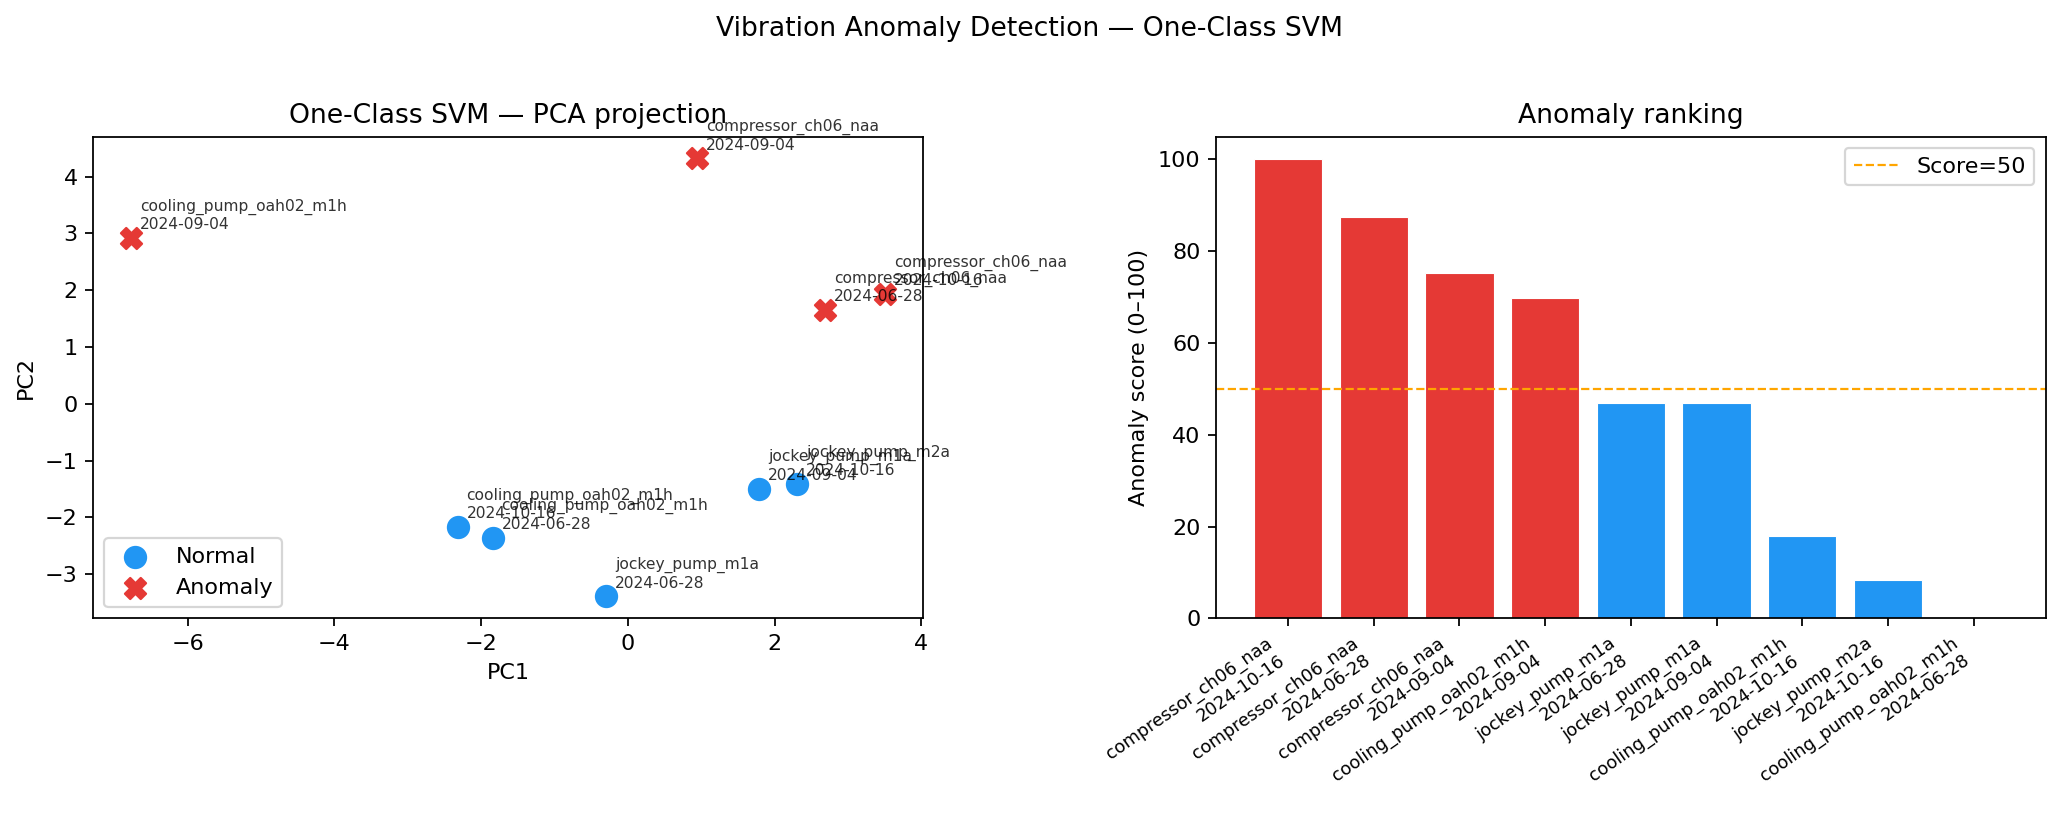
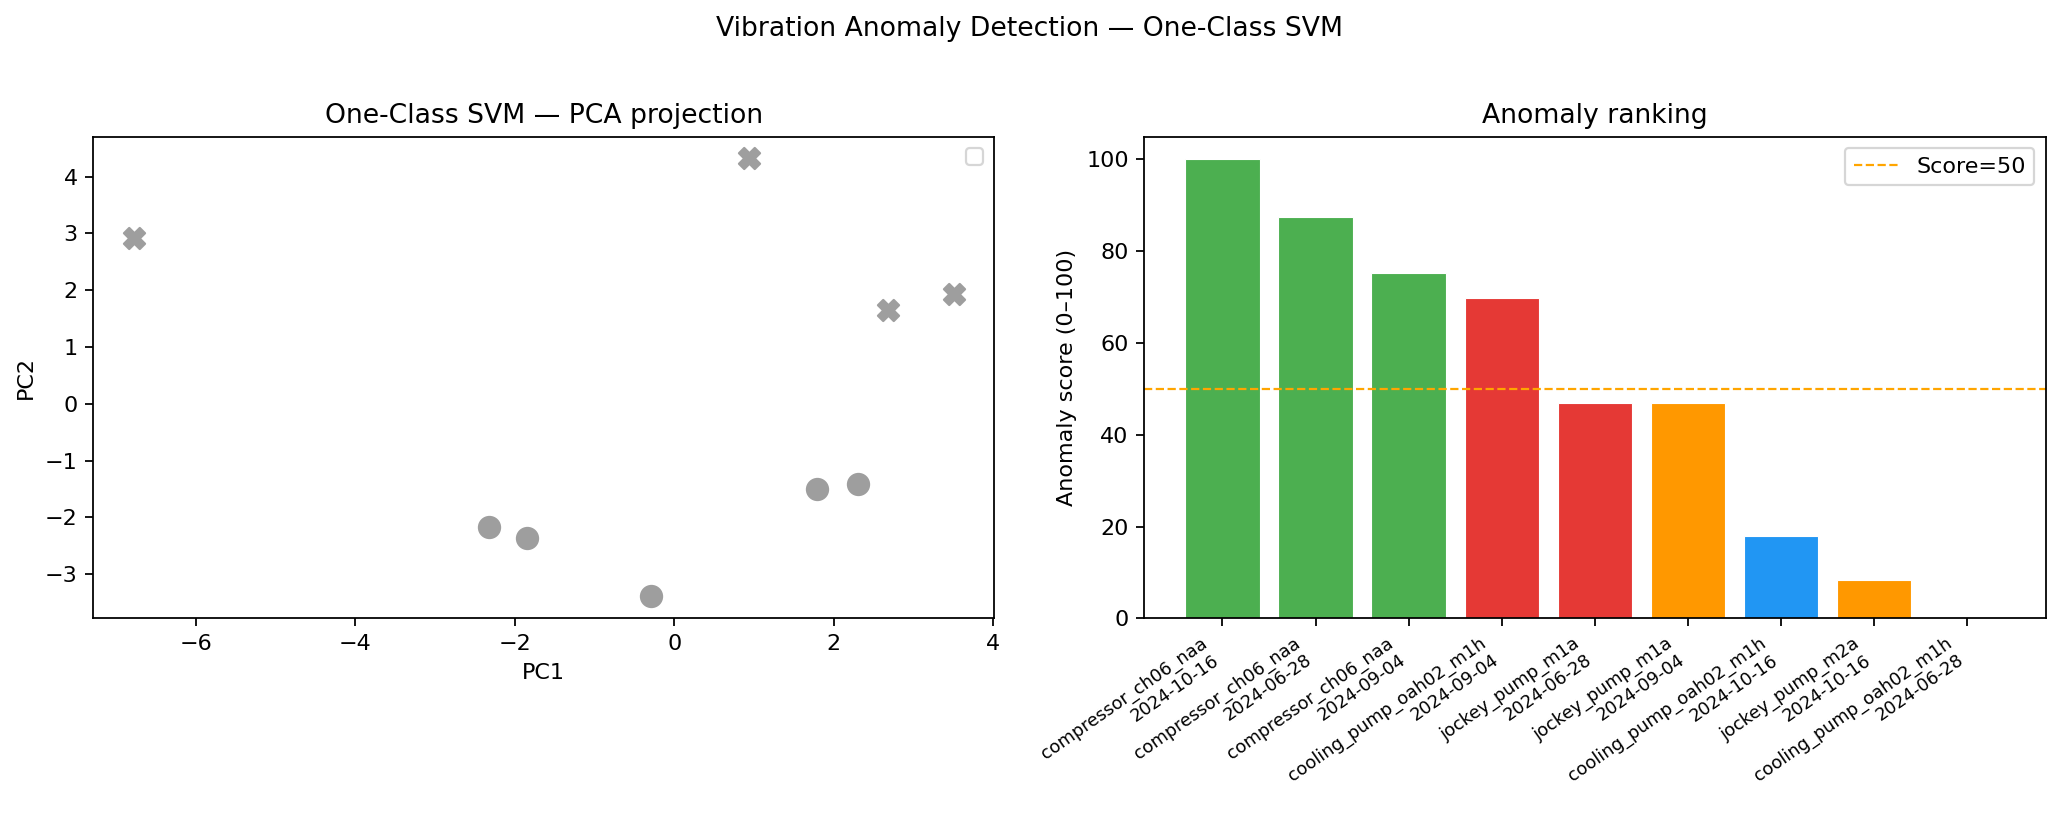
Refactor code structure for improved readability and maintainability

diff --git a/Vibration Analysis Pipeline/main.py b/Vibration Analysis Pipeline/main.py
@@ -4,6 +4,7 @@ from pathlib import Path
 import matplotlib.pyplot as plt
 import numpy as np
 import pandas as pd
+from config import ISO_GROUP
 
 from feature_extractor import build_feature_table
 from svm_detector import build_ai_assessment, save_ai_plots
@@ -52,50 +53,97 @@ def build_health_assessment(features: pd.DataFrame) -> pd.DataFrame:
               .sort_values(['asset_id', 'analysis_date'])
               .reset_index(drop=True))
 
+def build_iso_assessment(features: pd.DataFrame) -> pd.DataFrame:
+    rows = []
+    for _, row in features.iterrows():
+        asset = row['asset_id']
+        thresholds = ISO_GROUP.get(asset, 
+                        {'zone_b': 2.3, 'zone_c': 4.5, 'zone_d': 7.1})
+        
+        v = row.get('velocity_rms_mms', None)
+        if v is None:
+            zone = 'Unknown'
+        elif v > thresholds['zone_d']:
+            zone = 'D'   
+        elif v > thresholds['zone_c']:
+            zone = 'C'   
+        elif v > thresholds['zone_b']:
+            zone = 'B'   
+        else:
+            zone = 'A'   
+
+        rows.append({
+            'asset_id':        asset,
+            'analysis_date':   row['analysis_date'],
+            'file':            row['file'],
+            'velocity_rms_mms': round(v, 3) if v else None,
+            'iso_zone':        zone,
+            'iso_standard':    'ISO 10816-3 Group 1',
+        })
+
+    return pd.DataFrame(rows).sort_values(['asset_id', 'analysis_date'])
 
 PLOT_METRICS_WAVELET  = ['wavelet_energy_L1', 'wavelet_energy_L2', 'wavelet_entropy_L1']
 PLOT_METRICS_ENVELOPE = ['env_rms', 'env_dom_freq_hz', 'env_kurtosis']
 
-def save_trend_plots(features: pd.DataFrame, plot_dir: str | Path) -> None:
+def save_trend_plots(features: pd.DataFrame, iso_assessment: pd.DataFrame,
+                     plot_dir: str | Path) -> None:
+    from config import ISO_ZONE_COLORS, ISO_GROUP
+
     plot_dir = Path(plot_dir)
     plot_dir.mkdir(parents=True, exist_ok=True)
 
-    w_cols = [c for c in PLOT_METRICS_WAVELET  if c in features.columns]
-    e_cols = [c for c in PLOT_METRICS_ENVELOPE if c in features.columns]
-    n_rows = max(len(w_cols), len(e_cols))
+    merged = features.merge(
+        iso_assessment[['file', 'iso_zone']], 
+        on='file', how='left'
+    )
 
-    if n_rows == 0:
-        return
-
-    for asset_id, group in features.groupby('asset_id'):
+    for asset_id, group in merged.groupby('asset_id'):
         group = group.sort_values('analysis_date').reset_index(drop=True)
         x     = pd.to_datetime(group['analysis_date'])
+        
+        point_colors = [ISO_ZONE_COLORS.get(z, '#888') for z in group['iso_zone']]
 
-        fig, axes = plt.subplots(n_rows, 2, figsize=(12, 3 * n_rows), squeeze=False)
+        fig, axes = plt.subplots(4, 1, figsize=(10, 12))
         fig.suptitle(f'Vibration trend — {asset_id}', fontsize=11)
 
-        for i, col in enumerate(w_cols):
-            axes[i][0].plot(x, group[col], marker='o', color='#5C6BC0', linewidth=1.5)
-            axes[i][0].set_title(col, fontsize=9)
-            axes[i][0].tick_params(axis='x', rotation=20, labelsize=8)
+        ax = axes[0]
+        ax.plot(x, group['velocity_rms_mms'], color='#555', linewidth=1.5, zorder=2)
+        for i, (xi, yi, ci) in enumerate(zip(x, group['velocity_rms_mms'], point_colors)):
+            ax.scatter(xi, yi, color=ci, s=80, zorder=3)
 
-        for i, col in enumerate(e_cols):
-            axes[i][1].plot(x, group[col], marker='s', color='#26A69A', linewidth=1.5)
-            axes[i][1].set_title(col, fontsize=9)
-            axes[i][1].tick_params(axis='x', rotation=20, labelsize=8)
+        thresholds = ISO_GROUP.get(asset_id, {'zone_b': 2.3, 'zone_c': 4.5, 'zone_d': 7.1})
+        ymax = max(group['velocity_rms_mms'].max() * 1.3, thresholds['zone_d'] * 1.2)
+        ax.axhspan(0,                      thresholds['zone_b'], alpha=0.08, color='#4CAF50', label='Zone A')
+        ax.axhspan(thresholds['zone_b'],   thresholds['zone_c'], alpha=0.08, color='#2196F3', label='Zone B')
+        ax.axhspan(thresholds['zone_c'],   thresholds['zone_d'], alpha=0.08, color='#FF9800', label='Zone C')
+        ax.axhspan(thresholds['zone_d'],   ymax,                 alpha=0.08, color='#E53935', label='Zone D')
 
-        for i in range(len(w_cols), n_rows):
-            axes[i][0].set_visible(False)
-        for i in range(len(e_cols), n_rows):
-            axes[i][1].set_visible(False)
+        ax.axhline(thresholds['zone_b'], color='#2196F3', linestyle='--', linewidth=0.8)
+        ax.axhline(thresholds['zone_c'], color='#FF9800', linestyle='--', linewidth=0.8)
+        ax.axhline(thresholds['zone_d'], color='#E53935', linestyle='--', linewidth=0.8)
+
+        ax.set_title('Velocity RMS (mm/s) — ISO 10816-3', fontsize=9)
+        ax.set_ylim(0, ymax)
+        ax.legend(fontsize=7, loc='upper left')
+        ax.tick_params(axis='x', rotation=20, labelsize=8)
+
+        for i, col in enumerate(['wavelet_energy_L1', 'env_rms', 'kurtosis'], start=1):
+            if col not in group.columns:
+                axes[i].set_visible(False)
+                continue
+            axes[i].plot(x, group[col], color='#5C6BC0', linewidth=1.5)
+            for xi, yi, ci in zip(x, group[col], point_colors):
+                axes[i].scatter(xi, yi, color=ci, s=60, zorder=3)
+            axes[i].set_title(col, fontsize=9)
+            axes[i].tick_params(axis='x', rotation=20, labelsize=8)
 
         fig.tight_layout()
         safe_id = asset_id.replace('/', '_')
-        fig.savefig(plot_dir / f'wavelet_envelope_trend_{safe_id}.png', dpi=150)
+        fig.savefig(plot_dir / f'iso_trend_{safe_id}.png', dpi=150)
         plt.close(fig)
 
     print(f'[analyze] Saved trend plots → wavelet_envelope_trend_{{asset}}.png')
-
 
 def print_summary(features: pd.DataFrame, assessment: pd.DataFrame,
                   ai_assessment: pd.DataFrame) -> None:
@@ -117,7 +165,6 @@ def print_summary(features: pd.DataFrame, assessment: pd.DataFrame,
         print(f'    {flag:8s}: {n}')
     print('=' * 55 + '\n')
 
-
 def main() -> None:
     root = Path(__file__).resolve().parent
     data_dir = root.parent / 'Data' 
@@ -132,6 +179,8 @@ def main() -> None:
     print('[3/5] Running One-Class SVM anomaly detection...')
     ai_assessment = build_ai_assessment(features)
 
+    iso_assessment = build_iso_assessment(features)
+
     print('[4/5] Saving outputs...')
     out_dir = root / 'outputs'
     out_dir.mkdir(exist_ok=True)
@@ -140,8 +189,8 @@ def main() -> None:
     ai_assessment.to_csv(out_dir / 'ai_assessment.csv', index=False)
 
     print('[5/5] Generating plots...')
-    save_trend_plots(features, out_dir / 'plots')
-    save_ai_plots(features, ai_assessment, out_dir / 'plots')
+    save_trend_plots(features, iso_assessment, out_dir / 'plots')
+    save_ai_plots(features, ai_assessment, iso_assessment, out_dir / 'plots')
 
     print_summary(features, assessment, ai_assessment)
 

diff --git a/Vibration Analysis Pipeline/svm_detector.py b/Vibration Analysis Pipeline/svm_detector.py
@@ -7,6 +7,7 @@ import matplotlib.pyplot as plt
 from sklearn.decomposition import PCA
 from sklearn.preprocessing import StandardScaler
 from sklearn.svm import OneClassSVM
+from config import ISO_ZONE_COLORS
 
 from config import (
     SVM_NU, SVM_KERNEL, SVM_GAMMA,
@@ -54,6 +55,7 @@ def build_ai_assessment(features: pd.DataFrame) -> pd.DataFrame:
 
 # Plots
 def save_ai_plots(features: pd.DataFrame, ai_assessment: pd.DataFrame,
+                  iso_assessment: pd.DataFrame,
                   plot_dir: str | Path) -> None:
     plot_dir = Path(plot_dir)
     plot_dir.mkdir(parents=True, exist_ok=True)
@@ -73,23 +75,21 @@ def save_ai_plots(features: pd.DataFrame, ai_assessment: pd.DataFrame,
     fig, (ax1, ax2) = plt.subplots(1, 2, figsize=(13, 5))
 
     # PCA
-    for flag in ['Normal', 'Anomaly']:
-        mask = merged['anomaly_flag'] == flag
-        ax1.scatter(pts[mask, 0], pts[mask, 1],
-                    marker=markers[flag], color=colors[flag],
-                    s=90, label=flag, zorder=3)
     for i, row in merged.iterrows():
-        lbl = f"{row['asset_id']}\n{str(row['analysis_date'])[:10]}"
-        ax1.annotate(lbl, (pts[i, 0], pts[i, 1]),
-                     fontsize=7, alpha=0.8,
-                     xytext=(4, 4), textcoords='offset points')
+        zone = row.get('iso_zone', 'Unknown')
+        flag = row['anomaly_flag']
+        ax1.scatter(pts[i, 0], pts[i, 1],
+                    marker=markers[flag],
+                    color=ISO_ZONE_COLORS.get(zone, '#888'),
+                    s=90, zorder=3)
     ax1.set_title('One-Class SVM — PCA projection')
     ax1.set_xlabel('PC1'); ax1.set_ylabel('PC2')
     ax1.legend()
 
     # Score bar
     sp = merged.sort_values('anomaly_score_0_100', ascending=False).reset_index(drop=True)
-    bar_colors = [colors.get(f, '#888') for f in sp['anomaly_flag']]
+    sp = sp.merge(iso_assessment[['file', 'iso_zone']], on='file', how='left')
+    bar_colors = [ISO_ZONE_COLORS.get(z, '#888') for z in sp['iso_zone']]
     xlabels    = [f"{a}\n{str(d)[:10]}"
                   for a, d in zip(sp['asset_id'], sp['analysis_date'])]
     ax2.bar(range(len(sp)), sp['anomaly_score_0_100'],
@@ -108,7 +108,7 @@ def save_ai_plots(features: pd.DataFrame, ai_assessment: pd.DataFrame,
 
     fig, ax = plt.subplots(figsize=(10, 5))
     bars = ax.barh(range(len(sp)), sp['anomaly_score_0_100'],
-                   color=[colors.get(f, '#888') for f in sp['anomaly_flag']])
+                color=[ISO_ZONE_COLORS.get(z, '#888') for z in sp['iso_zone']])
     for i, (_, row) in enumerate(sp.iterrows()):
         ax.text(row['anomaly_score_0_100'] + 0.8, i,
                 f"driver: {row['top_ai_driver']}",

diff --git a/Vibration Analysis Pipeline/feature_extractor.py b/Vibration Analysis Pipeline/feature_extractor.py
@@ -5,9 +5,19 @@ import numpy as np
 import pandas as pd
 import pywt
 from scipy.signal import hilbert
+from scipy.integrate import cumulative_trapezoid
+from scipy.integrate import cumulative_trapezoid
 
 from data_parser import parse_waveform_txt
 from config import WAVELET, WAVELET_LEVEL
+
+def accel_to_velocity_rms(amp_g: np.ndarray, fs_hz: float) -> float:
+    amp_ms2 = amp_g * 9.81
+    dt = 1.0 / fs_hz
+    velocity = cumulative_trapezoid(amp_ms2, dx=dt, initial=0)
+    velocity -= velocity.mean()
+    rms_ms = float(np.sqrt(np.mean(velocity ** 2)))
+    return rms_ms * 1000
 
 def extract_wavelet_features(amp: np.ndarray, wavelet: str = WAVELET,
                               level: int = WAVELET_LEVEL) -> dict:
@@ -48,22 +58,23 @@ def extract_stat_features(amp: np.ndarray, fs_hz: float) -> dict:
     std       = float(amp.std(ddof=0))
     centered  = amp - amp.mean()
 
-    shape_factor   = rms / (abs_mean + 1e-12)         # RMS / |mean|
-    impulse_factor = peak / (abs_mean + 1e-12)        # peak / |mean|
+    shape_factor   = rms / (abs_mean + 1e-12)
+    impulse_factor = peak / (abs_mean + 1e-12)
     skewness       = float((centered ** 3).mean() / (std ** 3 + 1e-12))
     kurtosis       = float((centered ** 4).mean() / (std ** 4 + 1e-12))
     crest_factor   = peak / (rms + 1e-12)
     zero_cross     = float(np.mean(np.diff(np.signbit(amp)) != 0))
 
     return {
-        'rms_g':          rms,
-        'peak_abs_g':     peak,
-        'crest_factor':   crest_factor,
-        'kurtosis':       kurtosis,
-        'skewness':       skewness,
-        'shape_factor':   shape_factor,
-        'impulse_factor': impulse_factor,
-        'zero_cross_rate': zero_cross,
+        'rms_g':            rms,
+        'peak_abs_g':       peak,
+        'crest_factor':     crest_factor,
+        'kurtosis':         kurtosis,
+        'skewness':         skewness,
+        'shape_factor':     shape_factor,
+        'impulse_factor':   impulse_factor,
+        'zero_cross_rate':  zero_cross,
+        'velocity_rms_mms': accel_to_velocity_rms(amp, fs_hz),  # เพิ่มบรรทัดนี้
     }
 
 def extract_all_features(df: pd.DataFrame) -> dict:

diff --git a/Vibration Analysis Pipeline/config.py b/Vibration Analysis Pipeline/config.py
@@ -20,6 +20,25 @@ ENVELOPE_FEATURE_NAMES = [
     'env_rms', 'env_peak', 'env_dom_freq_hz', 'env_kurtosis', 'env_crest_factor',
 ]
 
+ISO_ZONE_B = 2.3   # mm/s
+ISO_ZONE_C = 4.5
+ISO_ZONE_D = 7.1
+
+ISO_GROUP = {
+    'compressor_ch06_naa':   {'zone_b': 2.3, 'zone_c': 4.5, 'zone_d': 7.1},
+    'cooling_pump_oah02_m1h': {'zone_b': 2.3, 'zone_c': 4.5, 'zone_d': 7.1},
+    'jockey_pump_m1a':        {'zone_b': 2.3, 'zone_c': 4.5, 'zone_d': 7.1},
+    'jockey_pump_m2a':        {'zone_b': 2.3, 'zone_c': 4.5, 'zone_d': 7.1},
+}
+
+ISO_ZONE_COLORS = {
+    'A': '#4CAF50',   
+    'B': '#2196F3',   
+    'C': '#FF9800',   
+    'D': '#E53935',   
+    'Unknown': '#9E9E9E',
+}
+
 def get_wavelet_feature_names(level: int = WAVELET_LEVEL) -> list[str]:
     names = []
     for i in range(level + 1):
